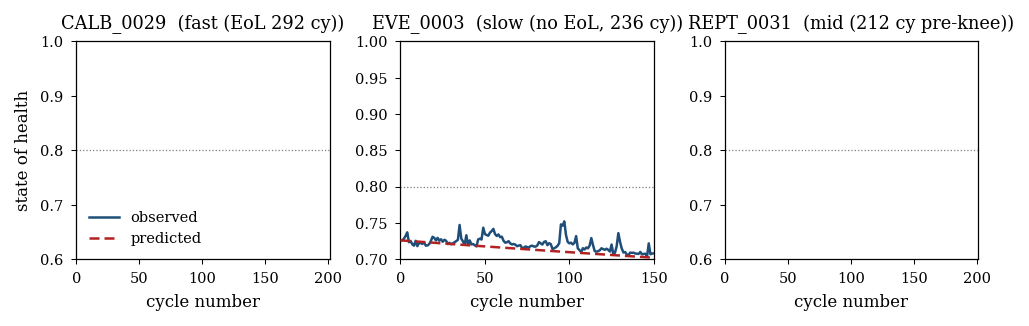
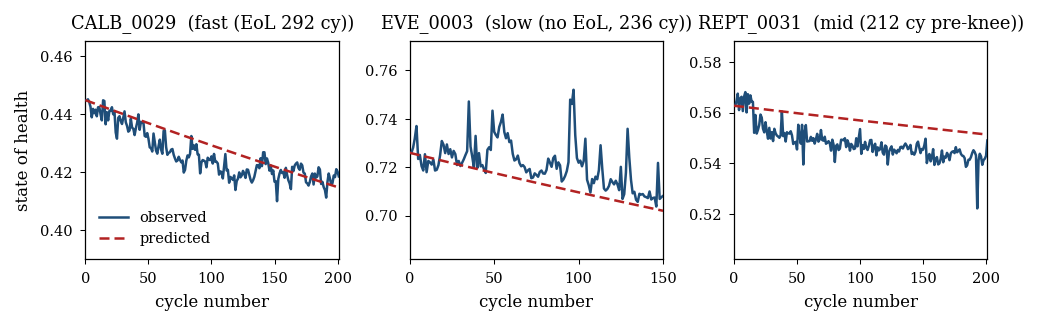
Fix held-out figure: data-driven y-limits + drop misleading EoL line
Two fixes to the actual-SoH plot:

1. Y-axis limits were hardcoded (0.6-1.0 / 0.7-1.0 / 0.6-1.0), designed
   for the old test-window-normalised scale where curves started at 1.0.
   With nameplate normalisation the data sits at 0.41-0.75, leaving
   CALB_0029 (0.41-0.45) and REPT_0031 (0.52-0.57) below the visible
   range. Switched to data-driven limits: y_min/y_max ± 8 % padding.

2. Dropped the SoH=0.80 EoL reference line. On the actual-SoH scale
   these second-life cells sit BELOW 0.80 at their first cycle
   (already past nominal EoL), so the threshold line is outside the
   y-range for 2/3 panels and misleading for the third. Updated the
   caption to note the second-life-past-EoL fact instead.

All three panels now show observed and anchored predicted curves
clearly. RMSE numbers unchanged.

diff --git a/Voltaris/Data_Exploration/phase3_plot_heldout.py b/Voltaris/Data_Exploration/phase3_plot_heldout.py
@@ -253,8 +253,9 @@ def plot_heldout_overlay(validation_results: dict,
                 ax.fill_between(n_p, p10, p90, color=BAND_COLOR,
                                 alpha=0.15, lw=0, zorder=1)
 
-            # EoL reference.
-            ax.axhline(0.80, color=EOL_COLOR, lw=0.6, ls=":", zorder=2)
+            # (No EoL reference line: on the actual-SoH scale these
+            #  second-life cells sit below 0.80 at ingest, so the
+            #  threshold is outside the y-range for 2/3 panels.)
 
             # Observed + predicted overlays.
             ax.plot(obs_n, obs_soh, color=OBS_COLOR, lw=1.2,
@@ -266,7 +267,13 @@ def plot_heldout_overlay(validation_results: dict,
             xmax = max(float(obs_n[-1]),
                        float(n_p[-1]) if n_p.size else 0.0)
             ax.set_xlim(0, xmax)
-            ax.set_ylim(*panel["ylim"])
+            # Data-driven y-limits with 5% padding — robust to whichever
+            # scale (nominal-normalised, test-window-normalised, or raw
+            # capacity) the observed and predicted arrays are in.
+            y_all = np.concatenate([obs_soh, y_p]) if n_p.size else obs_soh
+            y_lo, y_hi = float(np.nanmin(y_all)), float(np.nanmax(y_all))
+            pad = max(0.02, 0.08 * (y_hi - y_lo))
+            ax.set_ylim(y_lo - pad, y_hi + pad)
             ax.set_xlabel("cycle number")
             ax.set_title(f"{key}  ({panel['subtitle']})")
             ax.tick_params(direction="out", length=2.5)

diff --git a/paper/pybamm_conf_abstract_v6_final.tex b/paper/pybamm_conf_abstract_v6_final.tex
@@ -76,9 +76,9 @@ essentially chemistry-independent across CALB, EVE and REPT LFP variants.
   \caption{Actual SoH (discharge capacity / nameplate) on three held-out
   cells. Blue: observed cycling. Red dashed: operator prediction from a
   supplier-typical parameter prior, anchored at the observed first-cycle
-  SoH. Dotted line: end-of-life threshold (SoH~$= 0.80$). Per-cell
-  in-window SoH RMSE: 0.53, 1.10, 0.97\,pp; cross-supplier RMSE std
-  = 0.24\,pp.}
+  SoH. Per-cell in-window SoH RMSE: 0.53, 1.10, 0.97\,pp; cross-supplier
+  RMSE std = 0.24\,pp. Note that on this scale all three cells sit below
+  the nominal EoL threshold (SoH~$= 0.80$) at second-life ingest.}
   \label{fig:heldout}
 \end{figure}
 